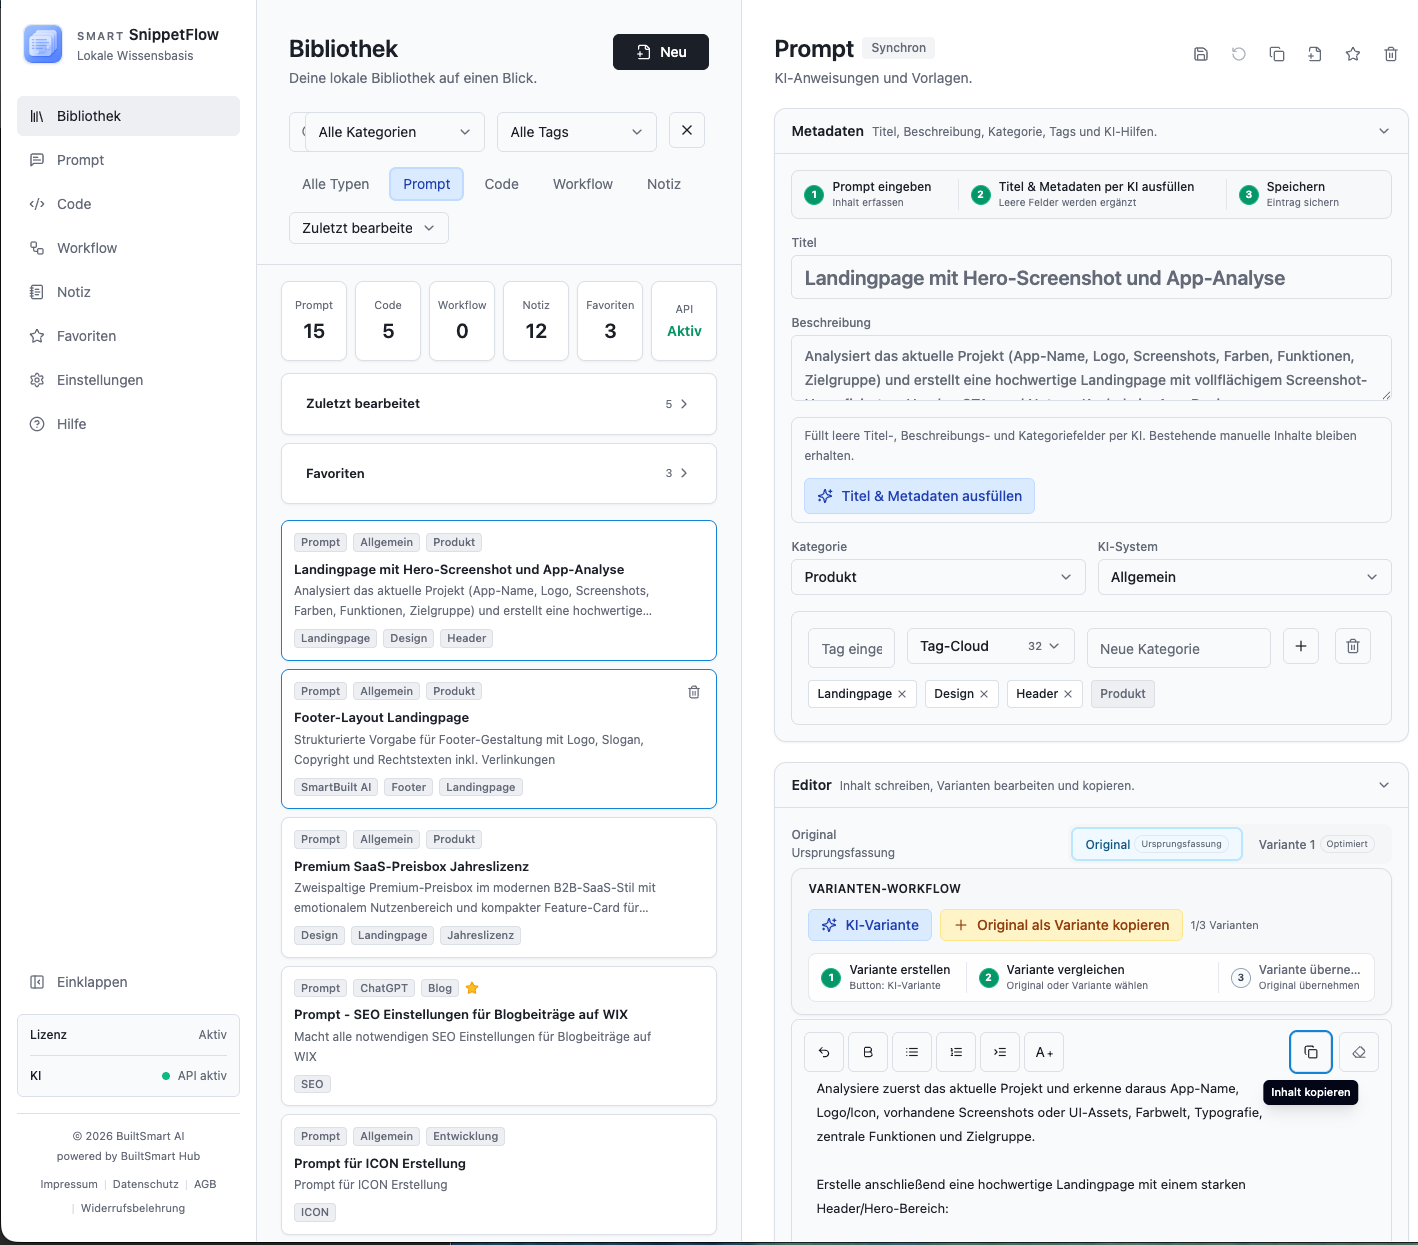
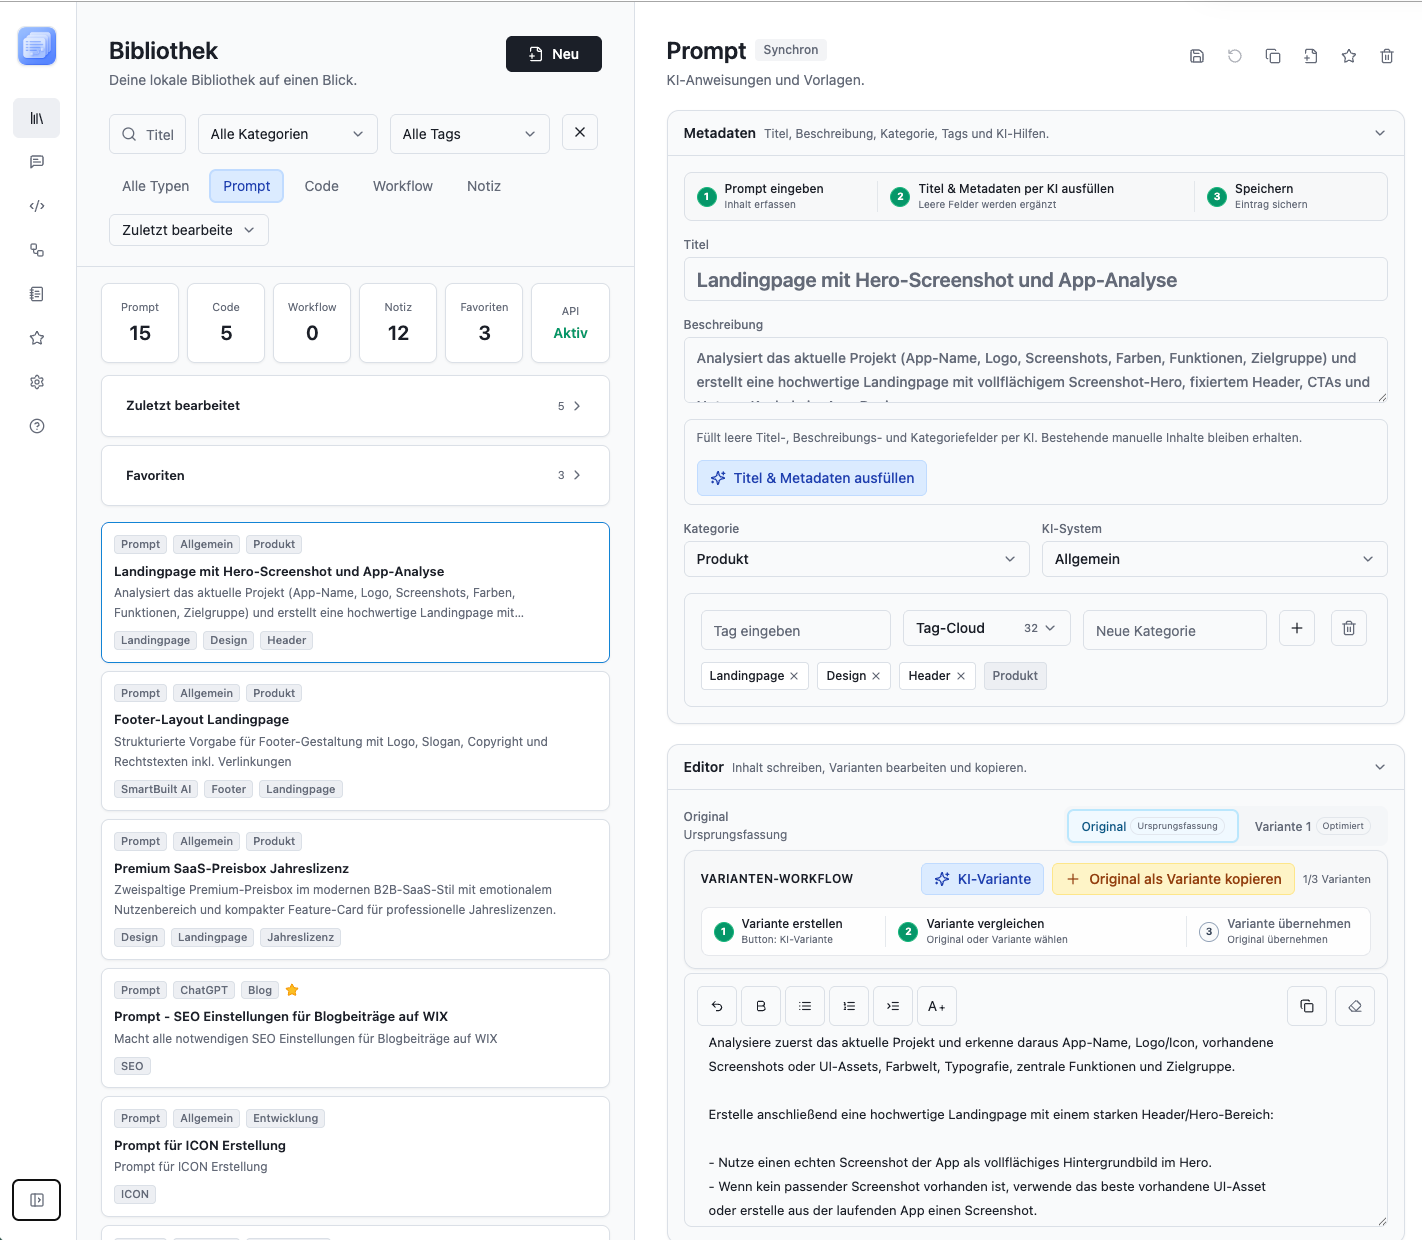
Update landing page hero

diff --git a/src/main.tsx b/src/main.tsx
@@ -165,8 +165,6 @@ const faqs = [
 function App() {
   return (
     <main className="min-h-screen bg-paper text-ink">
-      <Header />
-      <Hero />
       <HeroVariant />
       <Problem />
       <FeatureGrid />
@@ -220,9 +218,9 @@ function Hero() {
             SMART SnippetFlow
           </h1>
           <p className="mt-7 max-w-2xl text-lg leading-8 text-graphite/75 sm:text-xl">
-            Die minimalistische Desktop-App, mit der du Prompts, Code-Snippets,
-            KI-Workflows, Notizen und Vorlagen strukturiert sammelst, lokal
-            speicherst und schnell wiederfindest.
+            Sammle Prompts, Code-Snippets, KI-Workflows und Notizen
+            strukturiert an einem lokalen Ort. So bleiben deine wichtigsten
+            Bausteine auffindbar und schnell bereit für den nächsten Einsatz.
           </p>
           <div className="mt-9 grid w-full max-w-[430px] grid-cols-1 gap-3 sm:grid-cols-2">
             <CheckoutButton className="button button-dark w-full">
@@ -248,38 +246,39 @@ function Hero() {
 
 function HeroVariant() {
   return (
-    <section className="relative min-h-[760px] overflow-hidden border-b border-ink/10 bg-[#09090d] text-white">
+    <section id="top" className="relative min-h-[760px] overflow-hidden border-b border-ink/10 bg-[#09090d] text-white">
       <div className="absolute inset-0">
-        <div className="absolute inset-y-24 left-[47%] w-[760px] overflow-hidden rounded-[26px] border border-white/10 opacity-58 shadow-[0_24px_80px_rgba(0,0,0,0.45)] sm:left-[55%] lg:w-[880px]">
-          <img
-            src={heroScreenshotUrl}
-            alt=""
-            className="h-full w-full object-cover object-left-top"
-          />
-        </div>
-        <div className="absolute inset-0 bg-gradient-to-r from-[#09090d] via-[#09090d]/84 to-[#09090d]/44" />
-        <div className="absolute inset-0 bg-[#09090d]/32" />
+        <img
+          src={heroScreenshotUrl}
+          alt=""
+          className="h-full w-full object-cover object-left-top opacity-70"
+        />
+        <div className="absolute inset-0 bg-gradient-to-r from-[#020813] via-[#07111f]/88 to-[#07111f]/24" />
+        <div className="absolute inset-0 bg-gradient-to-r from-[#020813]/98 via-[#020813]/70 to-transparent" />
+        <div className="absolute inset-0 bg-gradient-to-t from-[#020813]/68 via-transparent to-[#020813]/18" />
       </div>
-      <div className="relative mx-auto flex min-h-[760px] max-w-7xl flex-col px-5 py-6 sm:px-6 lg:px-8">
-        <div className="flex items-center justify-between rounded-2xl border border-white/10 bg-white/[0.06] px-4 py-3 backdrop-blur-xl">
-          <a href="#top" className="flex items-center gap-3 font-semibold tracking-normal text-white">
+      <div className="relative border-b border-ink/10 bg-[#f8f6f1]/95 shadow-[0_18px_60px_rgba(2,8,19,0.18)] backdrop-blur-xl">
+        <div className="mx-auto flex max-w-7xl items-center justify-between px-5 py-4 sm:px-6 lg:px-8">
+          <a href="#top" className="flex items-center gap-3 font-semibold tracking-normal text-ink">
             <img src={logoUrl} alt="" className="h-9 w-9 rounded-lg shadow-sm" />
             <span>SMART SnippetFlow</span>
           </a>
-          <nav className="hidden items-center gap-7 text-sm text-white/68 md:flex">
-            <a href="#features" className="hover:text-white">Funktionen</a>
-            <a href="#local" className="hover:text-white">Lokal</a>
-            <a href="#license" className="hover:text-white">Lizenz</a>
-            <a href="#faq" className="hover:text-white">FAQ</a>
+          <nav className="hidden items-center gap-7 text-sm text-graphite/70 md:flex">
+            <a href="#features" className="hover:text-ink">Funktionen</a>
+            <a href="#local" className="hover:text-ink">Lokal</a>
+            <a href="#license" className="hover:text-ink">Lizenz</a>
+            <a href="#faq" className="hover:text-ink">FAQ</a>
           </nav>
-          <CheckoutButton className="hidden h-11 items-center gap-2 rounded-xl bg-white px-5 text-sm font-semibold text-ink transition hover:bg-[#f4f1eb] sm:inline-flex">
+          <CheckoutButton className="hidden h-11 items-center gap-2 rounded-xl bg-ink px-5 text-sm font-semibold text-white transition hover:bg-ink/88 sm:inline-flex">
             Lizenz sichern
             <ArrowRight className="h-4 w-4" />
           </CheckoutButton>
         </div>
-        <div className="grid flex-1 items-center gap-10 py-16 lg:grid-cols-[0.72fr_1.28fr] lg:py-20">
-          <div className="max-w-3xl">
-            <p className="eyebrow text-[#A0F5E8]">Header / Hero Variante 2</p>
+      </div>
+      <div className="relative mx-auto flex min-h-[696px] max-w-7xl flex-col px-5 pb-6 sm:px-6 lg:px-8">
+        <div className="flex flex-1 items-center py-16 lg:py-20">
+          <div className="max-w-4xl">
+            <p className="eyebrow text-[#A0F5E8]">Lokale Produktivitäts-App</p>
             <p className="mt-6 inline-flex items-center gap-2 rounded-full border border-white/12 bg-white/[0.08] px-4 py-2 text-sm text-white/76 backdrop-blur">
               <Sparkles className="h-4 w-4 text-[#A0F5E8]" />
               Lokale Produktivitäts-App für wiederverwendbare Bausteine
@@ -288,8 +287,9 @@ function HeroVariant() {
               SMART SnippetFlow
             </h2>
             <p className="mt-7 max-w-2xl text-lg leading-8 text-white/76 sm:text-xl">
-              Sammle Prompts, Code-Snippets, Workflows und Notizen an einem ruhigen Ort:
-              lokal gespeichert, klar strukturiert und schnell bereit für den nächsten Einsatz.
+              Sammle Prompts, Code-Snippets, KI-Workflows und Notizen strukturiert
+              an einem lokalen Ort. Auffindbar, klar geordnet und schnell bereit
+              für den nächsten Einsatz.
             </p>
             <div className="mt-9 grid w-full max-w-[460px] grid-cols-1 gap-3 sm:grid-cols-2">
               <CheckoutButton className="inline-flex h-12 w-full items-center justify-center gap-2 rounded-xl bg-white px-5 text-sm font-semibold text-ink transition hover:bg-[#f4f1eb]">
@@ -317,7 +317,6 @@ function HeroVariant() {
               ))}
             </div>
           </div>
-          <div className="hidden lg:block" />
         </div>
       </div>
     </section>